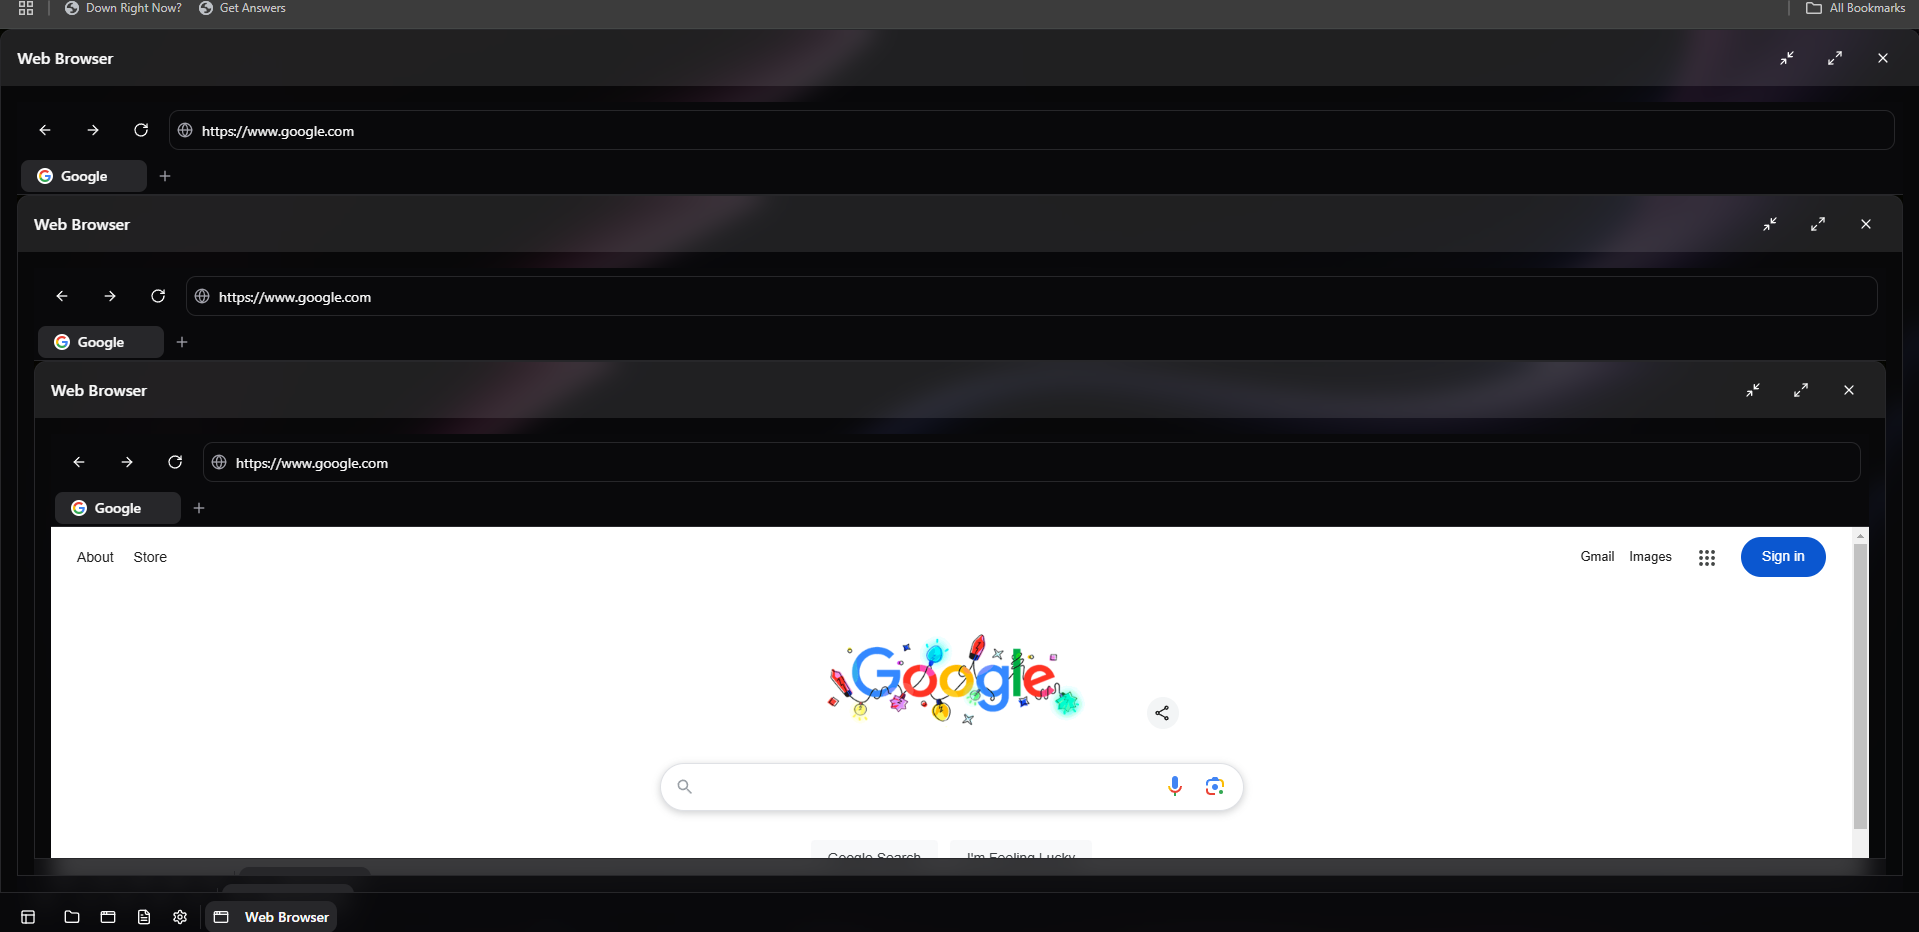
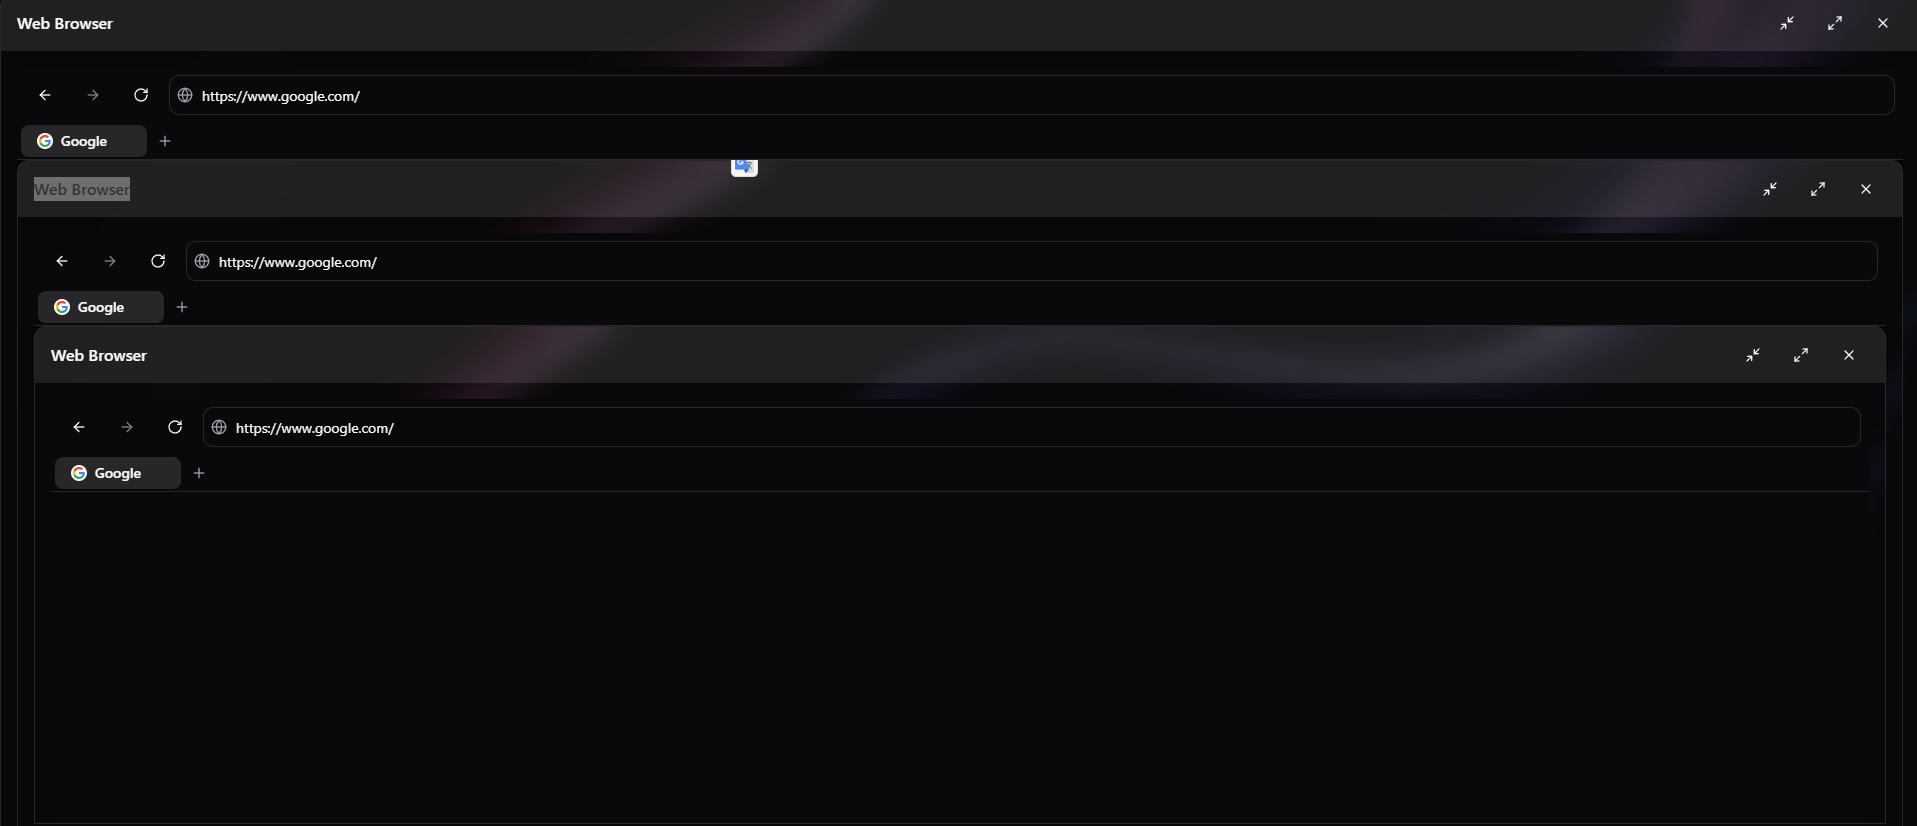
Agent query: Is the browser now handling navigation correctly without recursive loading?
Improve URL handling and prevent recursive proxy requests by adding URL validation and preventing internal URL proxying.

Screenshot: https://storage.googleapis.com/screenshot-production-us-central1/56f85264-1c16-4a16-bd1e-55992b659b63/b78ac842-5161-4154-adf7-d2798efe9c85.jpg

diff --git a/client/src/components/apps/Browser.tsx b/client/src/components/apps/Browser.tsx
@@ -142,12 +142,22 @@ export function Browser() {
   useEffect(() => {
     const handleMessage = (event: MessageEvent) => {
       if (event.data?.type === 'navigate' && event.data?.url) {
-        setInputUrl(event.data.url);
-        const tab = tabs.find(t => t.id === activeTab);
-        if (tab) {
-          setTabs(tabs.map(t => 
-            t.id === activeTab ? { ...t, url: event.data.url } : t
-          ));
+        try {
+          const url = new URL(event.data.url);
+          // Prevent recursive loading of our own app
+          if (url.hostname === window.location.hostname) {
+            return;
+          }
+          
+          setInputUrl(url.toString());
+          const tab = tabs.find(t => t.id === activeTab);
+          if (tab) {
+            setTabs(tabs.map(t => 
+              t.id === activeTab ? { ...t, url: url.toString() } : t
+            ));
+          }
+        } catch (e) {
+          console.error('Invalid URL:', e);
         }
       }
     };
@@ -233,7 +243,7 @@ export function Browser() {
           key={currentTab?.url}
           src={`/api/proxy?url=${encodeURIComponent(currentTab?.url || '')}`}
           className="absolute inset-0 w-full h-full"
-          sandbox="allow-same-origin allow-scripts allow-forms allow-popups"
+          sandbox="allow-same-origin allow-scripts allow-forms allow-popups allow-popups-to-escape-sandbox"
           onLoad={(e) => handleIframeLoad(activeTab, e.currentTarget)}
         />
       </div>

diff --git a/server/routes.ts b/server/routes.ts
@@ -11,14 +11,29 @@ export function registerRoutes(app: Express): Server {
         return res.status(400).send('URL parameter is required');
       }
 
-      // Clean up the URL if it's been recursively encoded
-      while (url.includes('api/proxy?url=')) {
-        url = decodeURIComponent(url.split('api/proxy?url=').pop() || '');
-      }
+      try {
+        // Clean up the URL if it's been recursively encoded
+        while (url.includes('api/proxy?url=')) {
+          url = decodeURIComponent(url.split('api/proxy?url=').pop() || '');
+        }
 
-      // Ensure the URL is properly formatted
-      if (!url.match(/^https?:\/\//)) {
-        url = 'https://' + url;
+        // Parse and validate the URL
+        const parsedUrl = new URL(url);
+        if (!parsedUrl.protocol.startsWith('http')) {
+          parsedUrl.protocol = 'https:';
+        }
+        
+        // Prevent recursive loading of our own app
+        if (parsedUrl.hostname === req.hostname) {
+          return res.status(400).send('Cannot proxy internal URLs');
+        }
+
+        url = parsedUrl.toString();
+      } catch (e) {
+        // If URL parsing fails, try prepending https://
+        if (!url.match(/^https?:\/\//)) {
+          url = 'https://' + url;
+        }
       }
 
       const fetchOptions = {
